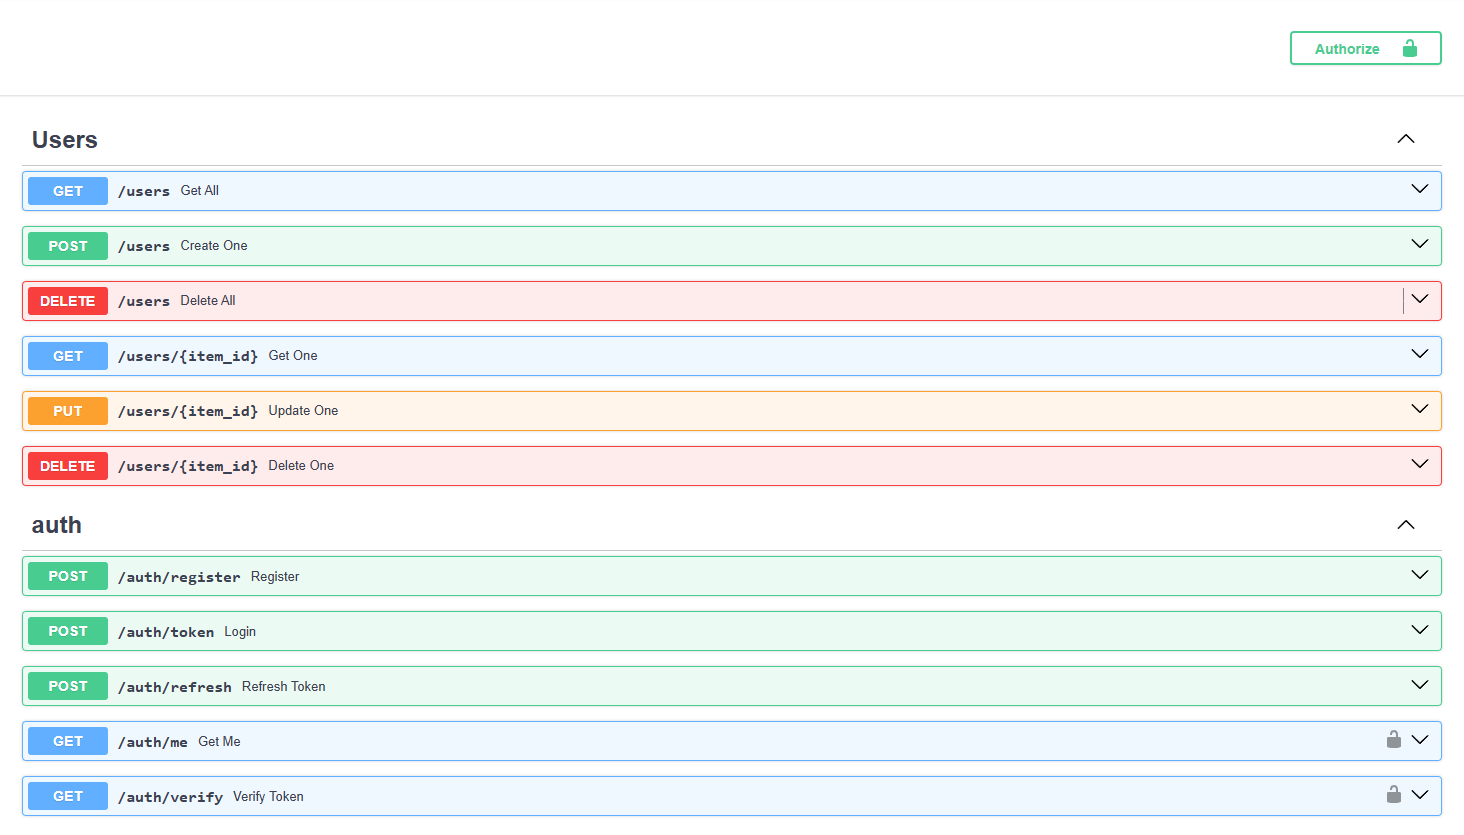
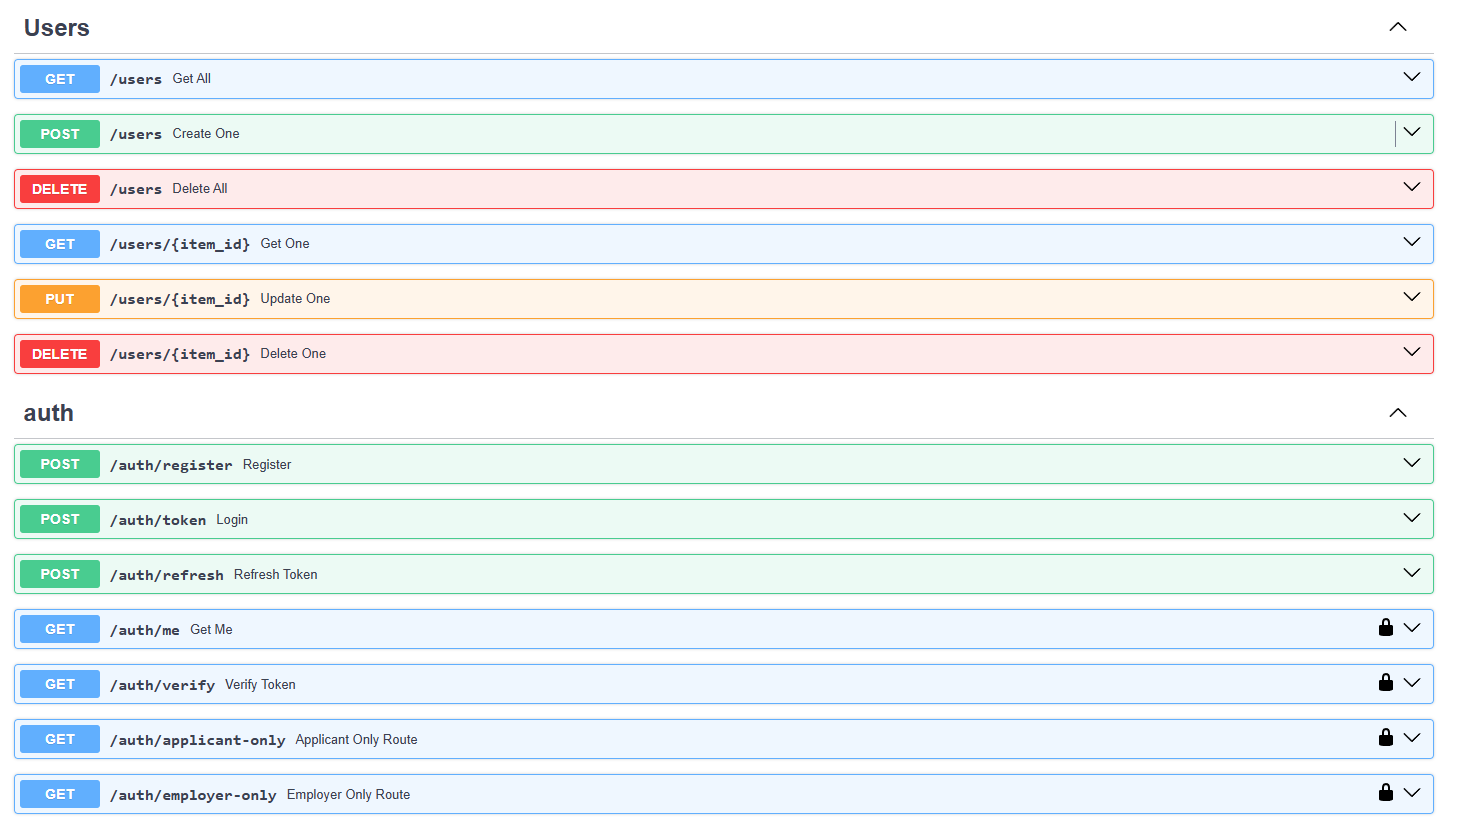
Add role checker

Changed region(s): [[0.0, 0.0312, 0.9863, 1.0], [0.863, 0.0312, 0.9863, 0.0938]]

diff --git a/src/api/auth/routes.py b/src/api/auth/routes.py
@@ -8,7 +8,7 @@ from src.db.models import UserModel, UserRole
 from src.api.users.schema import UserCreate, User
 from src.api.auth.utils import verify_password, get_password_hash, create_access_token, create_refresh_token
 from src.api.auth.utils import SECRET_KEY, ALGORITHM
-from src.api.auth.dependencies import oauth2_scheme
+from src.api.auth.dependencies import oauth2_scheme, get_current_user, require_role
 
 
 router = APIRouter(prefix="/auth", tags=["auth"])
@@ -55,18 +55,8 @@ def refresh_token(refresh_token: str = Body(...)):
         raise HTTPException(status_code=401, detail="Invalid refresh token")
 
 @router.get("/me", response_model=User)
-def get_me(token: str = Depends(oauth2_scheme), db: Session = Depends(get_session)):
-    try:
-        payload = jwt.decode(token, SECRET_KEY, algorithms=[ALGORITHM])
-        email: str = payload.get("sub")
-        if email is None:
-            raise HTTPException(status_code=401, detail="Invalid token")
-    except JWTError:
-        raise HTTPException(status_code=401, detail="Invalid token")
-    user = db.query(UserModel).filter(UserModel.email == email).first()
-    if user is None:
-        raise HTTPException(status_code=404, detail="User not found")
-    return User.from_orm(user)
+def get_me(current_user: UserModel = Depends(get_current_user)):
+    return User.from_orm(current_user)
 
 @router.get("/verify")
 def verify_token(token: str = Depends(oauth2_scheme)):
@@ -78,3 +68,11 @@ def verify_token(token: str = Depends(oauth2_scheme)):
         return {"status": "ok", "email": email}
     except JWTError:
         raise HTTPException(status_code=401, detail="Invalid token")
+
+@router.get("/applicant-only")
+def applicant_only_route(user: UserModel = Depends(require_role("соискатель"))):
+    return {"message": f"Hello, {user.name}! Только для соискателей."}
+
+@router.get("/employer-only")
+def employer_only_route(user: UserModel = Depends(require_role("работодатель"))):
+    return {"message": f"Hello, {user.name}! Только для работодателей."}

diff --git a/src/api/auth/dependencies.py b/src/api/auth/dependencies.py
@@ -1,4 +1,31 @@
+from fastapi import Depends, HTTPException
+from sqlalchemy.orm import Session
+from jose import jwt, JWTError
 from fastapi.security import OAuth2PasswordBearer
+
+from src.db.connection import get_session
+from src.db.models import UserModel
+from src.api.auth.utils import SECRET_KEY, ALGORITHM
 
 
 oauth2_scheme = OAuth2PasswordBearer(tokenUrl="/auth/token")
+
+def get_current_user(token: str = Depends(oauth2_scheme), db: Session = Depends(get_session)):
+    try:
+        payload = jwt.decode(token, SECRET_KEY, algorithms=[ALGORITHM])
+        email: str = payload.get("sub")
+        if email is None:
+            raise HTTPException(status_code=401, detail="Invalid token")
+    except JWTError:
+        raise HTTPException(status_code=401, detail="Invalid token")
+    user = db.query(UserModel).filter(UserModel.email == email).first()
+    if user is None:
+        raise HTTPException(status_code=404, detail="User not found")
+    return user
+
+def require_role(required_role: str):
+    def role_checker(user: UserModel = Depends(get_current_user)):
+        if user.role != required_role:
+            raise HTTPException(status_code=403, detail="Forbidden")
+        return user
+    return role_checker
